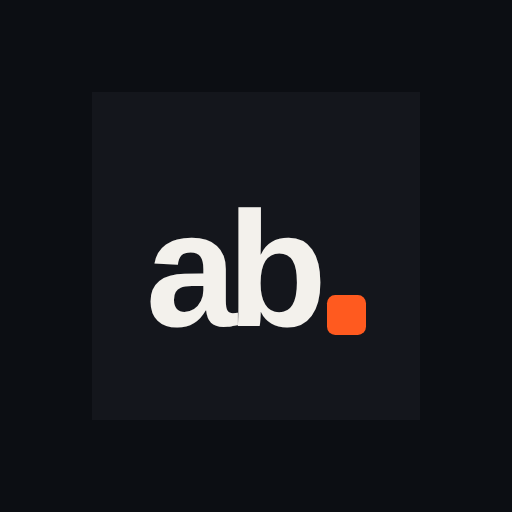
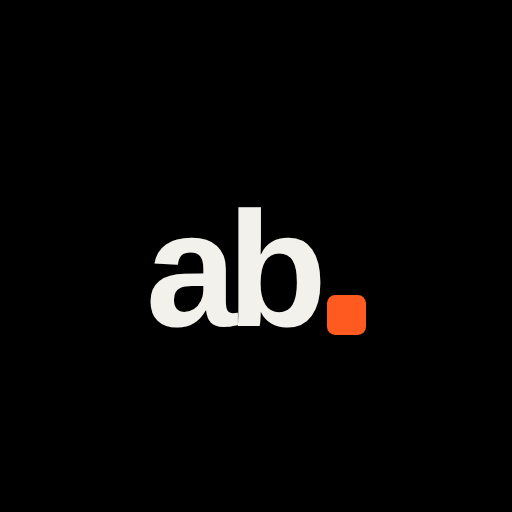
Dark theme: pure black with neutral greys
Dark mode now uses #000 background and neutral (untinted) surfaces,
text and lines; light mode's ink (buttons, contact, loader) is near
pure black. Terminal, test runner, 404, favicon, app icons, manifest
and theme-color updated to match. Service worker cache bumped to ab-v4.

Claude-Session: https://claude.ai/code/session_01Bu44ouN96UmN1bgBMbcGES

diff --git a/css/style.css b/css/style.css
@@ -8,11 +8,11 @@
   --bg-2: #ebe8e1;
   --surface: #fbfaf7;
   --surface-2: #f0ede6;
-  --ink: #14161c;
-  --ink-2: #2b2f38;
-  --muted: #5f6472;
-  --line: rgba(20, 22, 28, .12);
-  --line-strong: rgba(20, 22, 28, .22);
+  --ink: #050505;
+  --ink-2: #262626;
+  --muted: #5e5e63;
+  --line: rgba(0, 0, 0, .12);
+  --line-strong: rgba(0, 0, 0, .22);
   --accent: #ff5a1f;
   --accent-soft: rgba(255, 90, 31, .12);
   --on-accent: #fff;
@@ -20,8 +20,8 @@
   --ok-soft: rgba(24, 138, 92, .12);
   --bad: #cf3434;
   --bad-soft: rgba(207, 52, 52, .1);
-  --shadow: 0 1px 2px rgba(20, 22, 28, .05), 0 12px 32px -12px rgba(20, 22, 28, .18);
-  --grid: rgba(20, 22, 28, .06);
+  --shadow: 0 1px 2px rgba(0, 0, 0, .05), 0 12px 32px -12px rgba(0, 0, 0, .18);
+  --grid: rgba(0, 0, 0, .06);
 
   --font-display: "Space Grotesk", "IBM Plex Sans Arabic", system-ui, sans-serif;
   --font-sans: "Inter", "IBM Plex Sans Arabic", system-ui, -apple-system, "Segoe UI", sans-serif;
@@ -38,24 +38,24 @@
 
 @media (prefers-color-scheme: dark) {
   :root:not([data-theme="light"]) {
-    --bg: #0c0e13; --bg-2: #10131a; --surface: #141821; --surface-2: #1a1f2a;
-    --ink: #eceef3; --ink-2: #c9cdd6; --muted: #9198a8;
-    --line: rgba(236, 238, 243, .09); --line-strong: rgba(236, 238, 243, .2);
+    --bg: #000000; --bg-2: #060606; --surface: #0c0c0c; --surface-2: #151515;
+    --ink: #f2f2f2; --ink-2: #cfcfcf; --muted: #8e8e93;
+    --line: rgba(255, 255, 255, .09); --line-strong: rgba(255, 255, 255, .19);
     --accent: #ff6a2f; --accent-soft: rgba(255, 106, 47, .14); --on-accent: #120a06;
     --ok: #3ddc97; --ok-soft: rgba(61, 220, 151, .12); --bad: #ff6b6b; --bad-soft: rgba(255, 107, 107, .12);
-    --shadow: 0 1px 2px rgba(0, 0, 0, .4), 0 18px 40px -16px rgba(0, 0, 0, .7);
-    --grid: rgba(236, 238, 243, .05);
+    --shadow: 0 1px 2px rgba(0, 0, 0, .6), 0 18px 40px -16px rgba(0, 0, 0, .9);
+    --grid: rgba(255, 255, 255, .055);
     color-scheme: dark;
   }
 }
 :root[data-theme="dark"] {
-  --bg: #0c0e13; --bg-2: #10131a; --surface: #141821; --surface-2: #1a1f2a;
-  --ink: #eceef3; --ink-2: #c9cdd6; --muted: #9198a8;
-  --line: rgba(236, 238, 243, .09); --line-strong: rgba(236, 238, 243, .2);
+  --bg: #000000; --bg-2: #060606; --surface: #0c0c0c; --surface-2: #151515;
+  --ink: #f2f2f2; --ink-2: #cfcfcf; --muted: #8e8e93;
+  --line: rgba(255, 255, 255, .09); --line-strong: rgba(255, 255, 255, .19);
   --accent: #ff6a2f; --accent-soft: rgba(255, 106, 47, .14); --on-accent: #120a06;
   --ok: #3ddc97; --ok-soft: rgba(61, 220, 151, .12); --bad: #ff6b6b; --bad-soft: rgba(255, 107, 107, .12);
-  --shadow: 0 1px 2px rgba(0, 0, 0, .4), 0 18px 40px -16px rgba(0, 0, 0, .7);
-  --grid: rgba(236, 238, 243, .05);
+  --shadow: 0 1px 2px rgba(0, 0, 0, .6), 0 18px 40px -16px rgba(0, 0, 0, .9);
+  --grid: rgba(255, 255, 255, .055);
   color-scheme: dark;
 }
 
@@ -379,7 +379,7 @@ input[type="range"]::-moz-range-thumb { width: 14px; height: 14px; border-radius
 }
 .rule-form input:focus { outline: none; border-color: var(--accent); box-shadow: 0 0 0 3px var(--accent-soft); }
 .rule-form input.bad { border-color: var(--bad); }
-.tests { list-style: none; margin: 0; padding: 14px; border-radius: 10px; background: #0c0e13; color: #c9cdd6; font-size: 12.5px; display: grid; gap: 6px; direction: ltr; text-align: left; }
+.tests { list-style: none; margin: 0; padding: 14px; border-radius: 10px; background: #000000; color: #c9cdd6; font-size: 12.5px; display: grid; gap: 6px; direction: ltr; text-align: left; }
 .tests li { display: flex; gap: 10px; }
 .tests .st { width: 42px; flex: none; font-weight: 600; }
 .tests .pass .st { color: #3ddc97; }
@@ -657,10 +657,10 @@ kbd { font: inherit; font-size: 11px; padding: 1px 6px; border-radius: 4px; bord
 
 /* Terminal */
 .term {
-  position: relative; border-radius: var(--radius); overflow: hidden; background: #0b0d12; color: #d7dae2;
+  position: relative; border-radius: var(--radius); overflow: hidden; background: #000000; color: #d7dae2;
   border: 1px solid rgba(255,255,255,.08); box-shadow: 0 30px 80px -30px rgba(0,0,0,.55); direction: ltr; text-align: left;
 }
-.term-bar { display: flex; align-items: center; gap: 8px; padding: 12px 16px; background: #151821; border-bottom: 1px solid rgba(255,255,255,.06); }
+.term-bar { display: flex; align-items: center; gap: 8px; padding: 12px 16px; background: #0f0f0f; border-bottom: 1px solid rgba(255,255,255,.06); }
 .tl { width: 12px; height: 12px; border-radius: 50%; }
 .tl-r { background: #ff5f57; } .tl-y { background: #febc2e; } .tl-g { background: #28c840; }
 .term-title { margin-inline: auto; font-size: 12px; color: #8a90a0; transform: translateX(-24px); }
@@ -1085,7 +1085,7 @@ body::after {
 .cursor.hidden { opacity: 0 !important; }
 
 /* Glass shine: a lit top edge, a faint inner floor, and a sweep of light on hover */
-:root { --glass-edge: rgba(255, 255, 255, .55); --glass-shine: inset 0 1px 0 var(--glass-edge), inset 0 -1px 0 rgba(20, 22, 28, .05); }
+:root { --glass-edge: rgba(255, 255, 255, .55); --glass-shine: inset 0 1px 0 var(--glass-edge), inset 0 -1px 0 rgba(0, 0, 0, .05); }
 :root[data-theme="dark"] { --glass-edge: rgba(255, 255, 255, .1); --glass-shine: inset 0 1px 0 var(--glass-edge), inset 0 -1px 0 rgba(255, 255, 255, .03); }
 @media (prefers-color-scheme: dark) { :root:not([data-theme="light"]) { --glass-edge: rgba(255, 255, 255, .1); --glass-shine: inset 0 1px 0 var(--glass-edge), inset 0 -1px 0 rgba(255, 255, 255, .03); } }
 .card, .bento-card, .icon-btn, .tab, .chip, .eyebrow { box-shadow: var(--glass-shine), var(--shadow, none); }

diff --git a/404.html b/404.html
@@ -10,8 +10,8 @@
   <link rel="preconnect" href="https://fonts.gstatic.com" crossorigin />
   <link href="https://fonts.googleapis.com/css2?family=IBM+Plex+Sans+Arabic:wght@400;500&family=Inter:wght@400;500;600&family=JetBrains+Mono:wght@400;500&family=Space+Grotesk:wght@500;700&display=swap" rel="stylesheet" />
   <style>
-    :root { --bg: #f3f1ec; --surface: #fbfaf7; --ink: #14161c; --muted: #5f6472; --line: rgba(20,22,28,.12); --accent: #ff5a1f; --ok: #188a5c; --grid: rgba(20,22,28,.06); color-scheme: light; }
-    @media (prefers-color-scheme: dark) { :root { --bg: #0c0e13; --surface: #141821; --ink: #eceef3; --muted: #9198a8; --line: rgba(236,238,243,.1); --accent: #ff6a2f; --ok: #3ddc97; --grid: rgba(236,238,243,.05); color-scheme: dark; } }
+    :root { --bg: #f3f1ec; --surface: #fbfaf7; --ink: #050505; --muted: #5f6472; --line: rgba(20,22,28,.12); --accent: #ff5a1f; --ok: #188a5c; --grid: rgba(20,22,28,.06); color-scheme: light; }
+    @media (prefers-color-scheme: dark) { :root { --bg: #000000; --surface: #0c0c0c; --ink: #f2f2f2; --muted: #8e8e93; --line: rgba(236,238,243,.1); --accent: #ff6a2f; --ok: #3ddc97; --grid: rgba(236,238,243,.05); color-scheme: dark; } }
     * { box-sizing: border-box; }
     body { margin: 0; min-height: 100svh; display: grid; place-items: center; padding: 24px 16px; background: var(--bg); color: var(--ink); font: 16px/1.6 "Inter", system-ui, sans-serif;
       background-image: linear-gradient(var(--grid) 1px, transparent 1px), linear-gradient(90deg, var(--grid) 1px, transparent 1px); background-size: 48px 48px; }
@@ -22,7 +22,7 @@
     h1 { font: 600 clamp(26px, 4vw, 34px)/1.15 "Space Grotesk", sans-serif; letter-spacing: -.02em; margin: 28px 0 10px; }
     p { margin: 0; color: var(--muted); }
     .ar { font-family: "IBM Plex Sans Arabic", sans-serif; margin-top: 4px; }
-    pre { margin: 28px 0; padding: 16px 18px; border-radius: 14px; background: #0b0d12; color: #d7dae2; font: 13px/1.7 "JetBrains Mono", monospace; overflow-x: auto; white-space: pre-wrap; word-break: break-all; }
+    pre { margin: 28px 0; padding: 16px 18px; border-radius: 14px; background: #000000; color: #d7dae2; font: 13px/1.7 "JetBrains Mono", monospace; overflow-x: auto; white-space: pre-wrap; word-break: break-all; }
     .e { color: #ff6b6b; } .d { color: #7d8496; } .k { color: #ff8a5c; } .ok { color: #3ddc97; }
     .row { display: flex; flex-wrap: wrap; gap: 10px; }
     a.btn { display: inline-flex; align-items: center; gap: 8px; height: 46px; padding: 0 20px; border-radius: 999px; text-decoration: none; font-weight: 600; font-size: 15px; border: 1px solid var(--line); color: var(--ink); transition: background-color .25s, color .25s, border-color .25s; }

diff --git a/index.html b/index.html
@@ -5,7 +5,7 @@
   <meta name="viewport" content="width=device-width, initial-scale=1" />
   <title>Ahmed Bawazir — Software Engineer &amp; Oracle Fusion HCM Consultant</title>
   <meta name="description" content="Ahmed Bawazir — software engineer in Riyadh. Oracle Fusion HCM configuration, full-stack web and mobile development, and a tester's eye for edge cases." />
-  <meta name="theme-color" content="#0c0e13" media="(prefers-color-scheme: dark)" />
+  <meta name="theme-color" content="#000000" media="(prefers-color-scheme: dark)" />
   <meta name="theme-color" content="#f3f1ec" media="(prefers-color-scheme: light)" />
   <link rel="icon" href="favicon.svg" type="image/svg+xml" />
   <link rel="apple-touch-icon" href="assets/icon-192.png" />

diff --git a/js/terminal.js b/js/terminal.js
@@ -149,7 +149,7 @@ export function initTerminal(root) {
     const chars = 'アカサタナハマヤラワ0123456789ABHCMعربي';
     const t0 = performance.now();
     const f = now => {
-      ctx.fillStyle = 'rgba(8, 10, 14, .14)'; ctx.fillRect(0, 0, c.width, c.height);
+      ctx.fillStyle = 'rgba(0, 0, 0, .14)'; ctx.fillRect(0, 0, c.width, c.height);
       ctx.fillStyle = '#3ddc97'; ctx.font = `${fs}px JetBrains Mono, monospace`;
       drops.forEach((y, i) => {
         ctx.fillText(chars[(Math.random() * chars.length) | 0], i * fs, y * fs);

diff --git a/sw.js b/sw.js
@@ -1,6 +1,6 @@
 // Offline + fast repeat visits.
 // Pages: network-first (always fresh when online). Assets: stale-while-revalidate.
-const VERSION = 'ab-v3';
+const VERSION = 'ab-v4';
 const CORE = ['./', 'index.html', 'css/style.css', 'js/main.js', 'js/i18n.js', 'js/hero.js', 'js/play.js',
   'js/motion.js', 'js/terminal.js', 'js/roll.js', 'js/stage.js', 'js/loader.js', 'js/form.js',
   'js/glass.js', 'js/signature.js',
